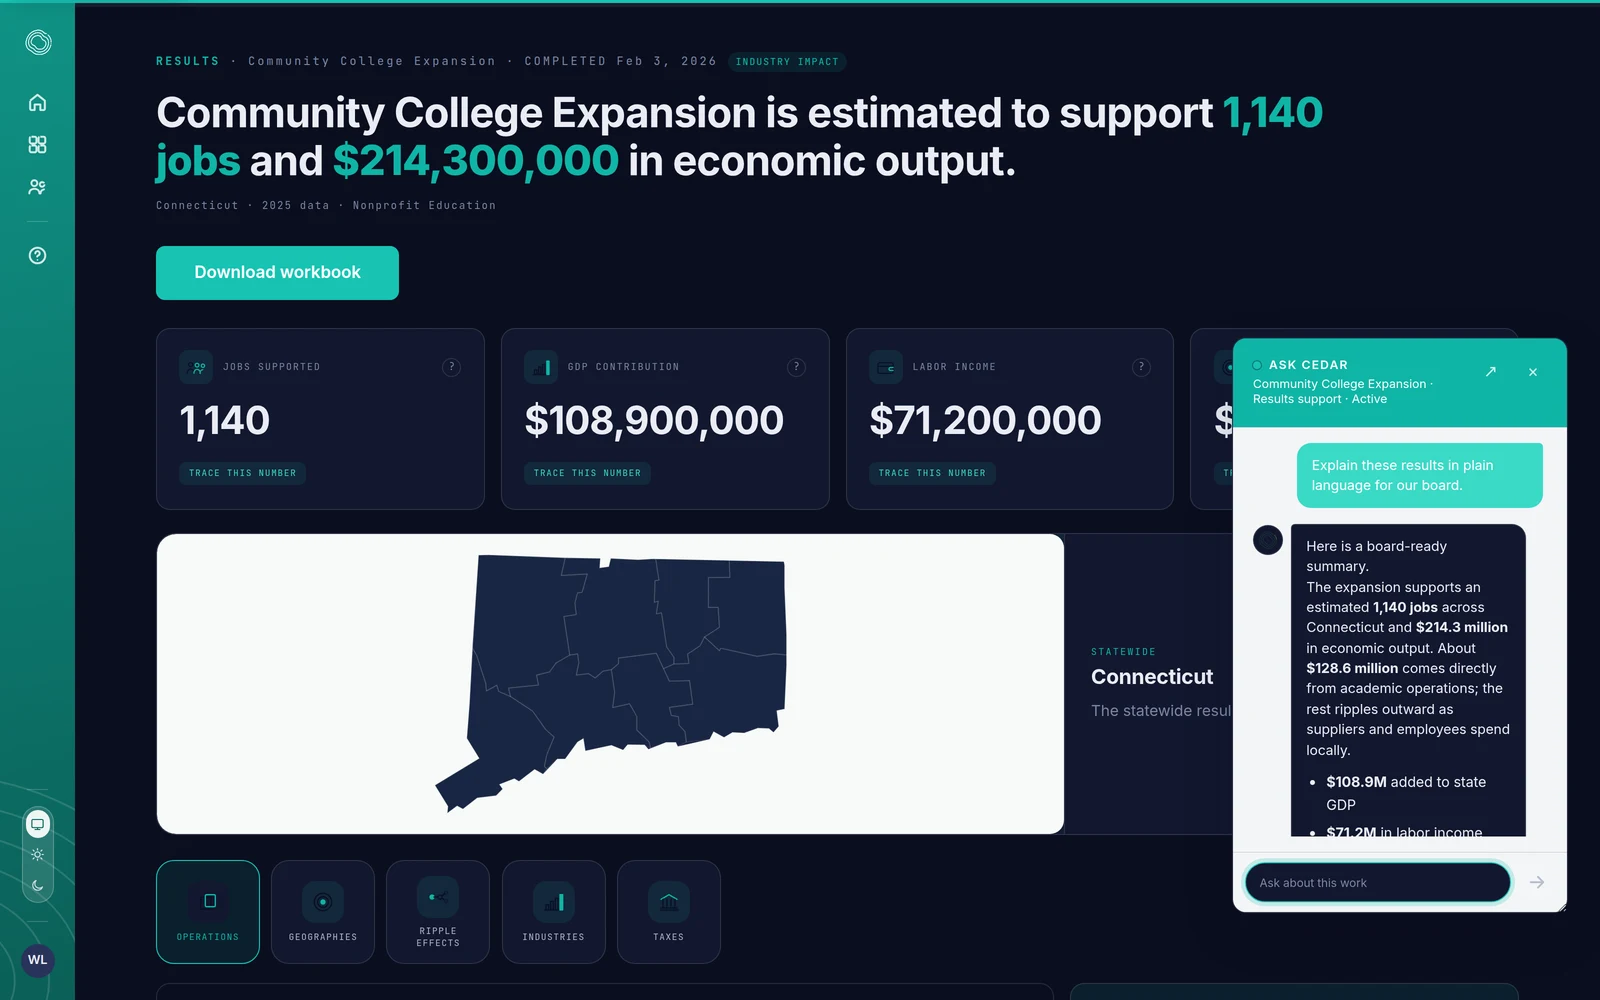
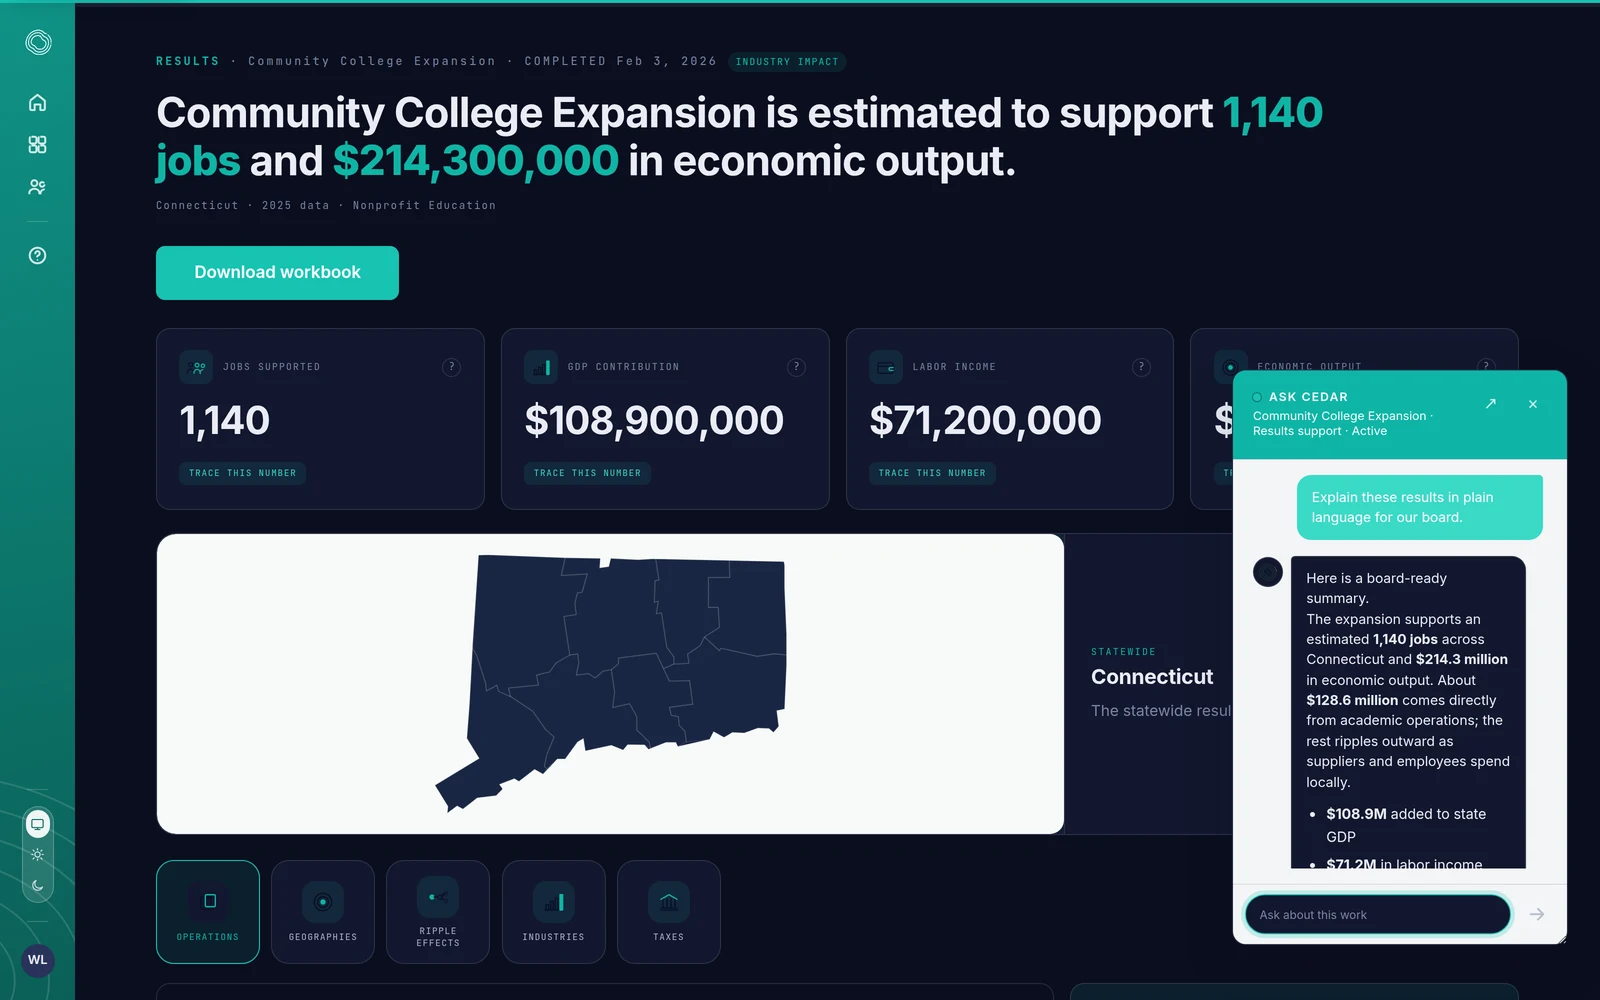
QA round: orderly hero rotation, docked Cedar chat, no section numbers
The hero trio no longer shuffles its three frames around; the
composition stays fixed (map left, results center, lineage right)
and only the center frame advances in order through the ten sample
analyses with a short crossfade.

The Cedar launcher now opens a chat docked flush to the bottom of
the viewport, a full-width bottom sheet on phones, with its own
close button and the FAB hidden while open (matching the pinned
widget shipped in teim-app). The Cedar page's ingestion and
thought-partner sections move to a second sample entity for
variety with continuity: Cedar reads three named documents at
intake and later drafts the county-board summary from the same
files, both captured from the real interface with the docked panel.

Mono section numbering is removed across methodology and cedar;
numbers remain only where order is the content (equation labels,
flow steps). Full-site sweep fixes: the film page joins the
h-kicker register and the checkout fine print states that prices
include taxes and fees. README gains the standing-decisions log,
SECURITY.md adds the auth/checkout API surface, and AGENTS.md in
both repos records the docked-widget rule.

Claude-Session: https://claude.ai/code/session_01CSz1H1JLzB7E78Jo7jEreX

Changed region(s): [[0.75, 0.341, 1.0, 0.961]]

diff --git a/tests/smoke.spec.ts b/tests/smoke.spec.ts
@@ -166,7 +166,7 @@ test('cedar page tells the AI story with diagrams and real captures', async ({ p
   await page.goto('/cedar', { waitUntil: 'domcontentloaded' });
   await expect(page.locator('h1')).toContainText('AI built for economic analysis');
   await expect(page.locator('.cedarpg-diagram')).toHaveCount(3);
-  await expect(page.locator('img[src="/app/cedar-intake.webp"]')).toBeVisible();
+  await expect(page.locator('img[src="/app/cedar-wind-intake.webp"]')).toBeVisible();
   await expect(page.locator('#navMenu a[href="/cedar"]')).toHaveCount(1);
   await expect(page.locator('footer a[href="/cedar"]')).toHaveCount(1);
 });

diff --git a/src/styles/methodology.css b/src/styles/methodology.css
@@ -75,13 +75,6 @@
   gap: 1.1rem;
   margin-bottom: clamp(1.6rem, 3vw, 2.4rem);
 }
-.meth-sec__num {
-  font-family: var(--font-mono);
-  font-size: 0.78rem;
-  font-weight: 600;
-  letter-spacing: 0.14em;
-  color: var(--accent-text);
-}
 .meth-sec__head h2 {
   font-size: clamp(1.45rem, 2.6vw, 2rem);
   font-weight: 650;

diff --git a/README.md b/README.md
@@ -9,21 +9,31 @@ economic analyst) in every plan. Built as a static
 authenticated product and its data layer live in sibling repositories (see
 [The product ecosystem](#where-this-fits-the-product-ecosystem)).
 
-The homepage leads with a rotating money shot (one of ten sample analyses,
-captured from the app in light and dark themes), the why cards, a product
-tour with real screenshots, the Lumecon edge grid, the Whole Nation and
-Cedar sections and the AI-research strip. Beyond the homepage the site
-carries pricing (Sprout $500 / Sapling $2,500 / Tree $7,500 a year, a free
-trial and the competitive transition offer), a methodology page with an
-FAQ, a glossary, sign-up and log-in pages, terms/privacy/404 and an
-unlisted /film page (reachable by direct link only, kept out of the
-sitemap). There is one Lumecon platform; the localeconomicimpact.com,
-tribaleconomicimpact.com and globaleconomicimpact.com domains are audience
-entry points into the same application. On the static deploy (no backend
-configured), Cedar's chat is answered entirely by a local keyword
-classifier and calls no upstream provider; when `PUBLIC_API_URL` is set it
-calls the Cedar backend and falls back to the local classifier on any
-error.
+The site follows a one-argument-per-page architecture: the homepage says
+why Lumecon matters (trio money shot cycling ten sample analyses in the
+center frame only, why cards, product tour, the Lumecon edge, a compact
+Cedar teaser and the mission close); **/cedar** owns the AI story
+(designed-in-from-the-beginning positioning, real captures of the docked
+Cedar panel on two different sample entities, three thin-line diagrams);
+**/pricing** is ruthlessly about pricing (three plans, the creed
+"Complexity belongs in the model. Not the pricing.", multi-year and
+lowest-applicable-price policies, the competitive transition offer,
+Whole Nation, Workspace/Grove and consultant licensing; prices include
+taxes and fees); **/methodology** argues the economics are credible
+(equations, the six-stage flow, the data manifest, validation, lineage,
+comparisons and the AI-research verification block); the glossary
+defines terms and nothing more. Around those: sign-up, log-in and
+checkout wired to the product API, /accessibility (WCAG 2.2 AA
+statement), terms/privacy placeholders awaiting counsel, a 404 and an
+unlisted /film page kept out of the sitemap. There is one Lumecon
+platform; the localeconomicimpact.com, tribaleconomicimpact.com and
+globaleconomicimpact.com domains are audience entry points into the same
+application. On the static deploy (no backend configured), Cedar's chat
+is answered entirely by a local keyword classifier and calls no upstream
+provider; when `PUBLIC_API_URL` is set it calls the Cedar backend and
+falls back to the local classifier on any error. The Cedar launcher
+opens a chat docked to the bottom edge of the viewport (a full-width
+bottom sheet on phones), matching the product's pinned widget.
 
 ## Tech stack
 
@@ -269,6 +279,39 @@ Values are nominal USD. This supply/use base is what the impact multipliers
 the site describes are built on, so the homepage data-sources strip should
 stay consistent with the public sources behind it (Census ACS/LODES/QWI/CBP/
 TIGER, BEA Input-Output, BLS QCEW, USDA NASS, USAspending, FRED, NOAA).
+
+## Standing decisions (2026-07)
+
+Decisions made with the founder that future work must respect. The
+engineering rules live in [`AGENTS.md`](./AGENTS.md) (AI-frontend-tell
+audit, semantic teal, the approved brand-phrase vocabulary and the
+page-ownership rule); this list records the product/brand calls.
+
+- **Positioning.** "Built on decades of economic science. Not frozen in
+  it." answers the incumbency pitch; "We tailor the modeling, not the
+  price." answers consultative pricing. Cedar's line is "AI in the
+  workflow. Economists in the loop." Mission: "Every organization has an
+  economic impact." Reuse these; do not invent new slogans per section.
+- **Pricing policies (public commitments).** Prices include taxes and
+  fees. Multi-year agreements qualify for preferred pricing with prepaid
+  savings; multiple qualifying rates resolve to the lowest applicable
+  price. The competitive transition offer is 50% of documented qualifying
+  spend, capped at the standard plan price, or the existing preferred
+  rate, whichever is lower. Counsel must review the offer, the security
+  claims, the /cedar privacy language and "Patent pending" before launch.
+- **Numbers are used sparingly.** No mono section numbering; equations
+  (Eq. 01…) and ordered flow steps keep their numbers because order is
+  the content.
+- **Screenshots are real captures at a uniform 1600x1000** from teim-app
+  (1440px shell, demo user Wassily Leontief), taken via the mock-route
+  pipeline in the session scratchpad; the hero trio never shuffles
+  positions, only the center frame advances in order.
+- **Cedar chat docks to the bottom edge** when open, on the site and in
+  the product; it is never a floating window.
+- **Launch blockers owned by the founder:** final Terms/Privacy from the
+  Cornell clinic; Stripe backend (`POST /billing/checkout-session` +
+  webhook) in teim-app; Google OAuth origin for the website signup;
+  teim-app migrations 021 and 022 on deploy; counsel review items above.
 
 ## Security
 

diff --git a/SECURITY.md b/SECURITY.md
@@ -17,6 +17,7 @@ In scope:
 - `lumecon.ai` and any subdomain that resolves to Lumecon-operated infrastructure.
 - The audience entry-point domains: `localeconomicimpact.com`, `tribaleconomicimpact.com`, `globaleconomicimpact.com` (marketing doors into the same Lumecon platform).
 - The marketing-page Cedar assistant (local keyword classifier on the static deploy; an optional backend API path exists behind `PUBLIC_API_URL`).
+- The sign-up, log-in and checkout pages, which post to the Lumecon product API (`/auth/register`, `/auth/login`, `/auth/password-reset-request`, `/auth/password-reset`, and the planned `/billing/checkout-session` Stripe handoff) when a backend is configured.
 
 Out of scope:
 - Findings on third-party services we link to (LinkedIn, font CDNs).
